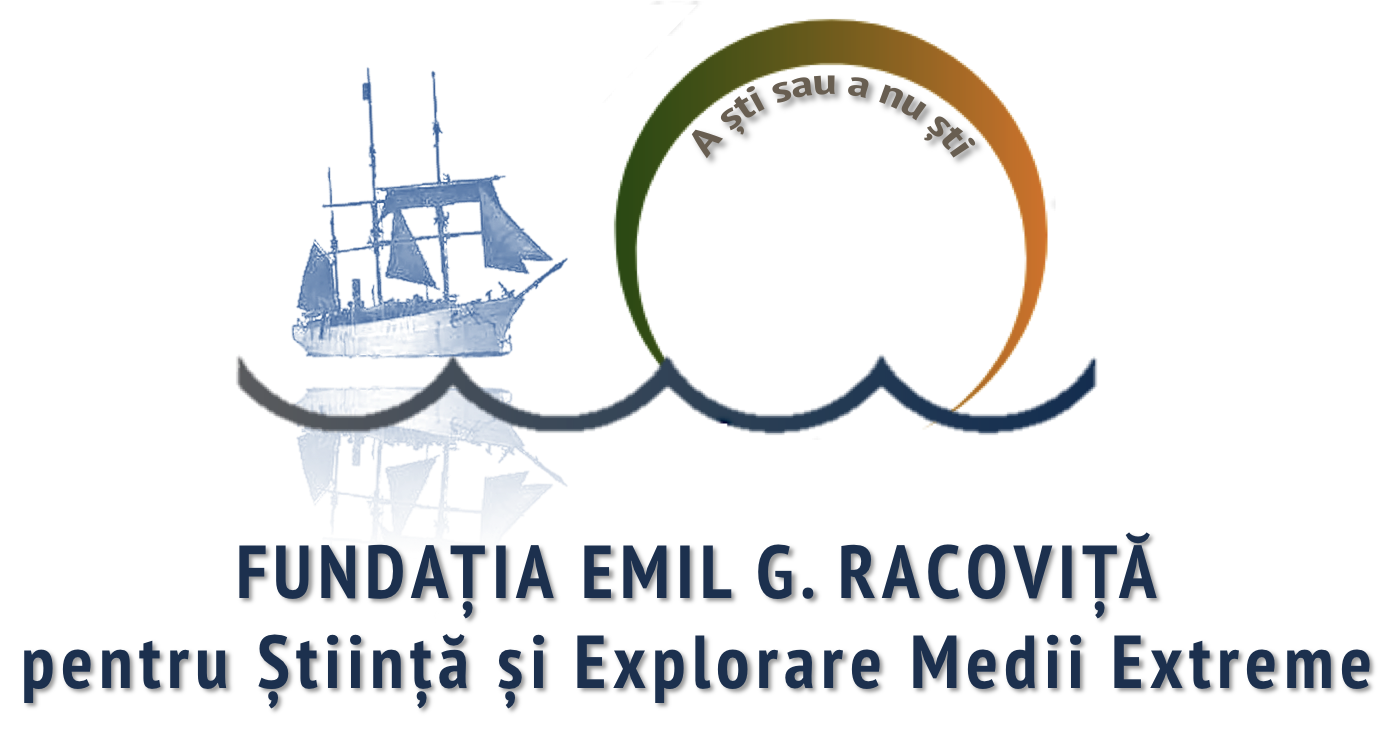
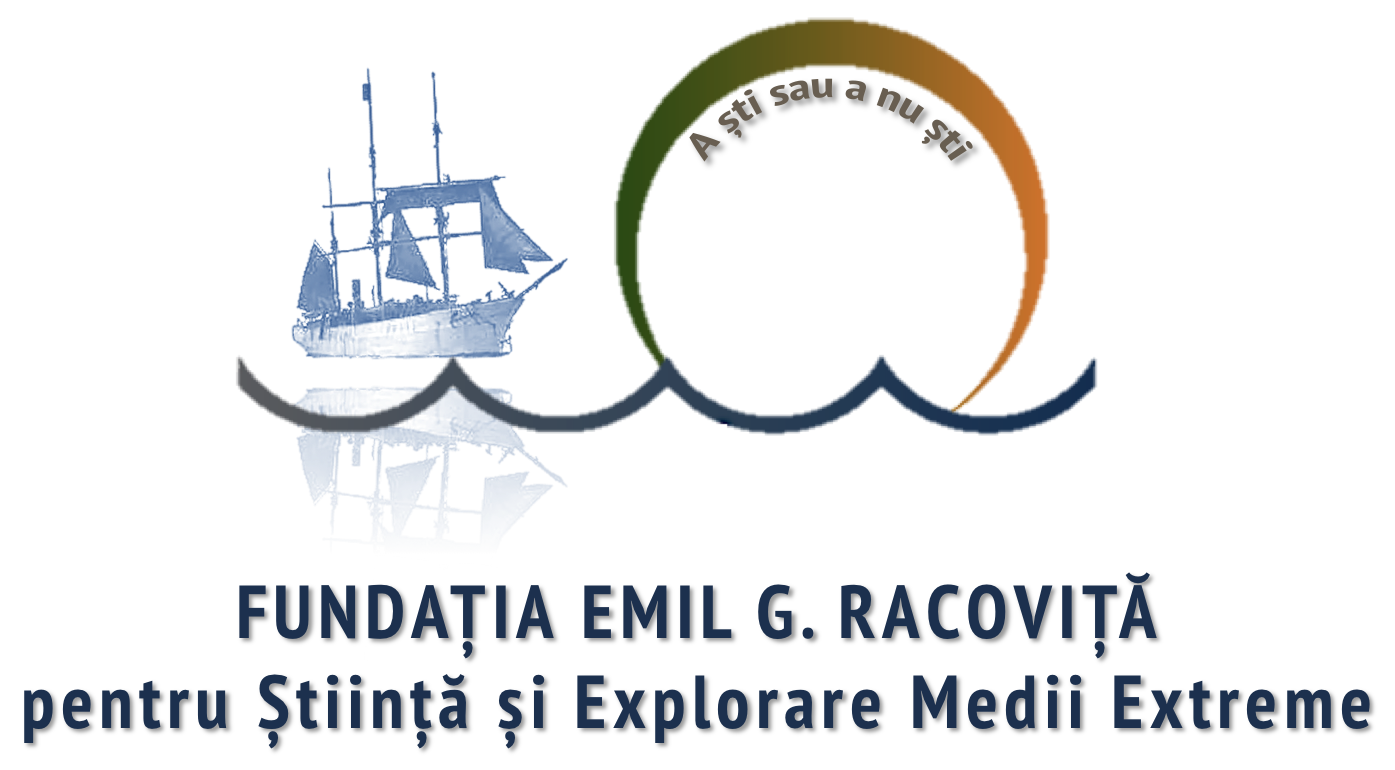
images on top

diff --git a/_includes/header.html b/_includes/header.html
@@ -1,6 +1,9 @@
 <header class="site-header" role="banner">
-    <img src='{{"/assets/images/sigla_ro.png"  | relative_url }}' height="100"/>
+  <div class="site-nav unit four-fifths title">
+    <img src='{{"/assets/images/sigla_ro_notext.png"  | relative_url }}' width="150"/>
     <h1>{{ site.languages[page.lang].title | escape }}</h1>
+    <h2>{{ site.languages[page.lang].subtitle | escape }}</h2>
+  </div>
     <nav class="site-nav unit one-fifth">
       <div class="btn-group-sm btn-translate-group dropdown">
         <div class="dropdown-menu" >
@@ -12,6 +15,9 @@
              <option  {% if page.lang == "de" %} selected {% endif %} value="/de/index.html">Deutsche</option>
           </select>
         </div>
+      </div>
+      <div class="portrait unit one-fifth">
+        <img src='{{"/assets/images/racovita1.jpeg" | relative_url }}' />
       </div>
     </nav>
 </header>

diff --git a/_layouts/default.html b/_layouts/default.html
@@ -25,11 +25,6 @@
             {{ content }}
           </section>
           <div class="right-menu">
-          <div class="portrait unit one-fifth">
-            <img src='{{"/assets/images/racovita1.jpeg" | relative_url }}' />
-          <p/>
-          </div>
-          <p/>
           {%- include nav_menu.html -%}
           </div>
           </div>

diff --git a/_sass/nav.scss b/_sass/nav.scss
@@ -68,6 +68,11 @@ $text-color: #111 !default;
   }
 }
 
+.title {
+  text-align: center;
+  width: 100%;
+}
+
 .dropdown {
   display: flex;
 

diff --git a/_sass/jekyll-theme-tactile.scss b/_sass/jekyll-theme-tactile.scss
@@ -94,7 +94,7 @@ header h2 {
 }
 
 .inner {
-  max-width: 1200px;
+  max-width: 1100px;
   margin: 0 auto;
 }
 
